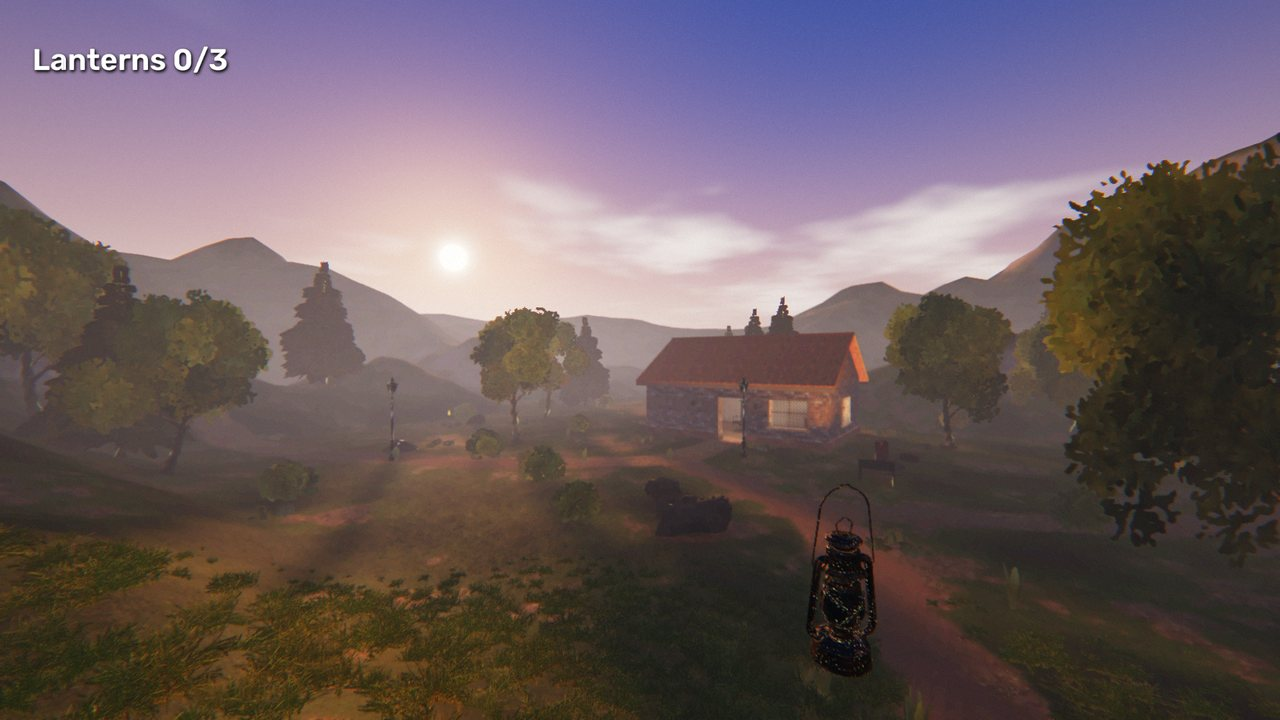
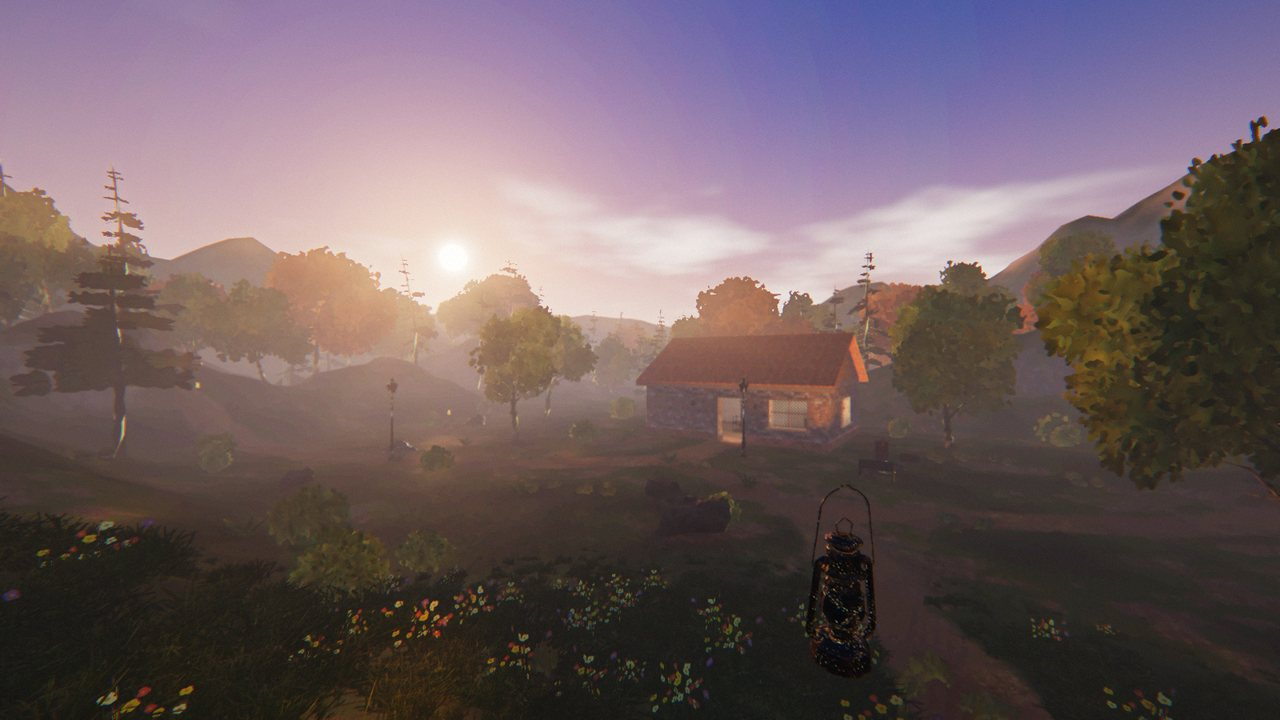
showcase valley: wildflower meadow, wind and forest edges

diff --git a/examples/showcase/world.py b/examples/showcase/world.py
@@ -49,7 +49,8 @@ lab.goal(7, 0, -7.5, 9, 3, -5.5)
 
 v = game.level("Valley")
 v.outdoor(sky="dusk", sun=(-0.75, 0.18, -0.5), fog=0.0045)
-v.terrain(-48, -48, 48, 48, hills=9.0, seed=7)
+v.terrain(-48, -48, 48, 48, hills=9.0, seed=7, grass_style="meadow")
+v.wind((0.8, -0.6), strength=0.7)
 v.flatten(-18, -14, 18, 16, height=0.0, falloff=12)
 v.building(-3, -11, 8, -3, door=("+z", 2.5), windows=[("+z", 6.0), ("+x", -7), ("-x", -7)])
 v.prop("table", 2.5, 0, -7)
@@ -75,11 +76,6 @@ def clear(x, z):
     return not (-4.5 < x < 9.5 and -12.5 < z < -1.5) and abs(x - 2.75) + abs(z - 1) > 2.5
 
 
-for i in range(16):
-    a = rng.uniform(0, 6.28)
-    r = rng.uniform(20, 38)
-    v.prop(rng.choice(["oak", "pine", "pine", "birch"]), math.cos(a) * r, 0, math.sin(a) * r,
-           yaw=rng.uniform(0, 360), scale=rng.uniform(0.85, 1.25))
 for (x, z, k) in ((13, -8, "oak"), (-12, -3, "birch"), (-7, 4, "birch"), (19, 10, "oak"), (-16, 18, "pine")):
     v.prop(k, x, 0, z, yaw=x * 13)
 for i in range(18):
@@ -103,3 +99,8 @@ v.prop("streetlamp", -8, 0, 10.5)
 v.pickup("lantern1", "lantern", -23, 0.9, 14, scale=1.5, glow=2.0)
 v.pickup("lantern2", "lantern", 27, 0.9, -6.5, scale=1.5, glow=2.0)
 v.pickup("lantern3", "lantern", -15, 0.9, 3, scale=1.5, glow=2.0)
+
+v.forest(-46, -46, 46, -24, kind="mixed", density=0.8, undergrowth=False, seed=3)
+v.forest(-46, -24, -27, 46, kind="mixed", density=0.7, undergrowth=False, seed=4)
+v.forest(31, -24, 46, 46, kind="pine", density=0.8, undergrowth=False, seed=6)
+v.forest(-27, 30, 31, 46, kind="broadleaf", density=0.6, undergrowth=False, seed=7)
